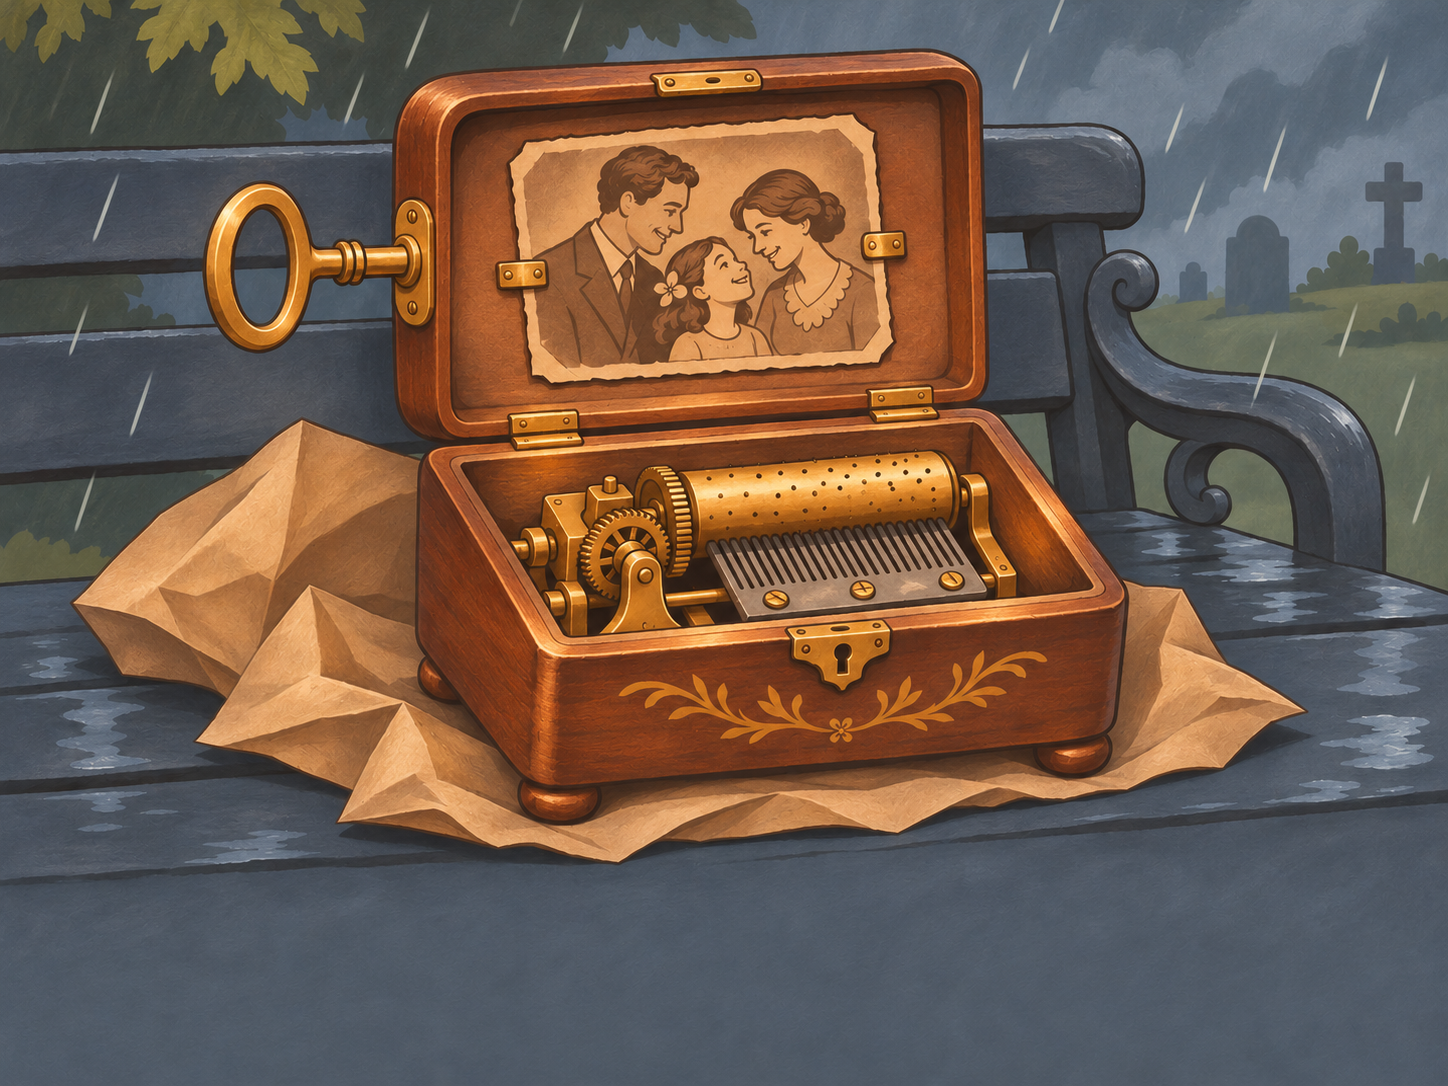
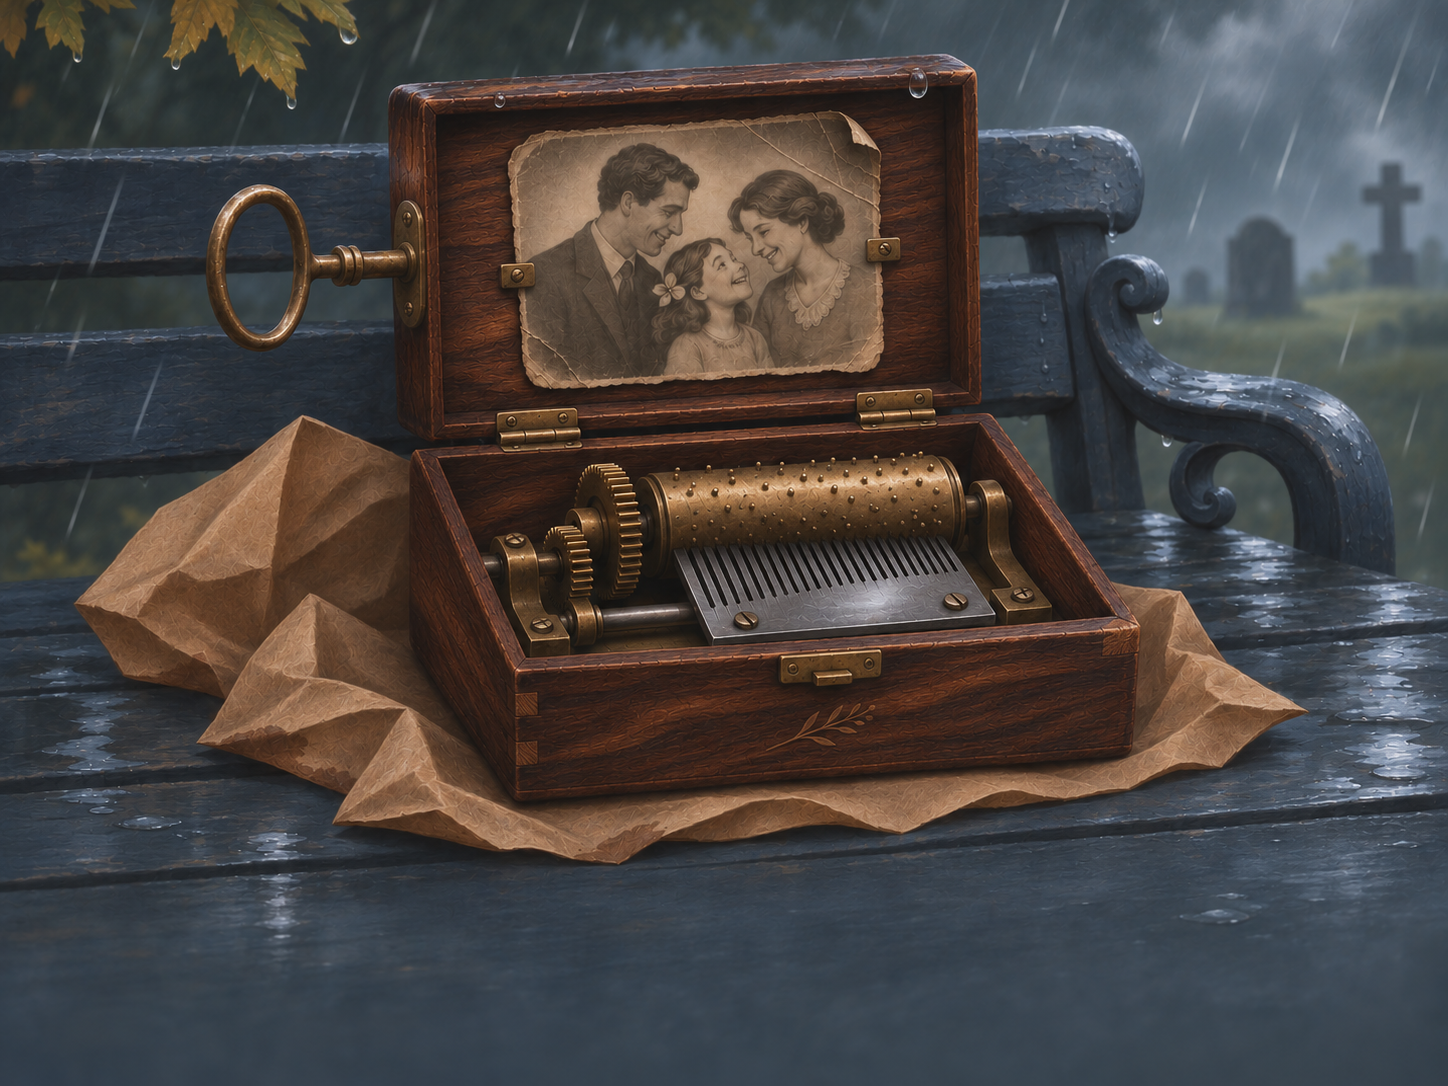
Animate the approved music box without a hand

diff --git a/RememberMeUnity/Assets/Scripts/Act1HUD.cs b/RememberMeUnity/Assets/Scripts/Act1HUD.cs
@@ -25,8 +25,9 @@ namespace RememberMe
         RectTransform chapterCenter;
         Image illustration;
         Image illustrationBacking;
-        RectTransform windingFrame;
-        Image windingHand;
+        Material windingMaterial;
+        static readonly int CrankAngle = Shader.PropertyToID("_CrankAngle");
+        static readonly int CylinderTravel = Shader.PropertyToID("_CylinderTravel");
         Image memoryButterfly;
         Image splash;
         Image portrait;
@@ -78,15 +79,6 @@ namespace RememberMe
             illustration.preserveAspect = true;
             illustration.raycastTarget = false;
             illustration.enabled = false;
-            windingFrame = Rect(illustration.rectTransform, "Music box close-up bounds", Vector2.one * .5f,
-                Vector2.one * .5f, Vector2.zero, Vector2.zero);
-            windingFrame.gameObject.AddComponent<RectMask2D>();
-            windingHand = Surface(windingFrame, "Grace winds the key", Color.white,
-                Vector2.one * .5f, Vector2.one * .5f, Vector2.zero, Vector2.zero);
-            windingHand.sprite = Resources.Load<Sprite>("MusicBox/Hand");
-            windingHand.raycastTarget = false;
-            windingHand.rectTransform.pivot = new Vector2(.96f, .51f);
-            windingHand.enabled = false;
             chapterCard = Surface(art, "Chapter card", new Color(Night.r, Night.g, Night.b, .81f),
                 Vector2.zero, Vector2.one, Vector2.zero, Vector2.zero).rectTransform;
             chapterCenter = Rect(chapterCard, "Chapter lettering", new(.5f,.5f), new(.5f,.5f), new(-440,-95), new(440,95));
@@ -294,7 +286,7 @@ namespace RememberMe
         public void HideDialogue() => dialogue.gameObject.SetActive(false);
         public void Picture(Sprite image)
         {
-            windingHand.enabled = false;
+            illustration.material = null;
             illustration.sprite = image;
             illustration.enabled = image != null;
             illustrationBacking.enabled = image != null;
@@ -302,23 +294,22 @@ namespace RememberMe
 
         public void WindMusicBox(float progress)
         {
-            windingHand.enabled = windingHand.sprite && illustration.sprite && progress < 1;
-            if (!windingHand.enabled) return;
-            Vector2 panel = illustration.rectTransform.rect.size;
-            Vector2 image = illustration.sprite.rect.size;
-            Vector2 fitted = image * Mathf.Min(panel.x / image.x, panel.y / image.y);
-            windingFrame.sizeDelta = fitted;
-            // The grip point is the center of the brass loop in Mechanism.png.
-            Vector2 grip = Vector2.Scale(new Vector2(.182f, .754f) - Vector2.one * .5f, fitted);
-            float reach = Mathf.SmoothStep(0, 1, Mathf.InverseLerp(0, .25f, progress))
-                * (1 - Mathf.SmoothStep(0, 1, Mathf.InverseLerp(.80f, 1, progress)));
-            float turn = Mathf.InverseLerp(.25f, .80f, progress);
-            var hand = windingHand.rectTransform;
-            hand.anchoredPosition = grip - new Vector2((1 - reach) * fitted.x * .13f, (1 - reach) * fitted.y * .08f);
-            float width = fitted.x * .26f;
-            hand.sizeDelta = new Vector2(width, width * windingHand.sprite.rect.height / windingHand.sprite.rect.width);
-            hand.localEulerAngles = new Vector3(0, 0, 19 * Mathf.Sin(turn * Mathf.PI * 4));
-            windingHand.color = new Color(1, 1, 1, reach);
+            if (!illustration.sprite) return;
+            if (!windingMaterial)
+            {
+                var shader = Resources.Load<Shader>("MusicBox/WindingMotion");
+                if (!shader || !shader.isSupported) return;
+                windingMaterial = new Material(shader);
+            }
+            illustration.material = windingMaterial;
+            float revolutions = 2 * Mathf.SmoothStep(0, 1, progress);
+            windingMaterial.SetFloat(CrankAngle, revolutions * 2 * Mathf.PI);
+            windingMaterial.SetFloat(CylinderTravel, revolutions * .62f);
+        }
+
+        void OnDestroy()
+        {
+            if (windingMaterial) Destroy(windingMaterial);
         }
 
         public void PrepareCapture(Camera camera)
